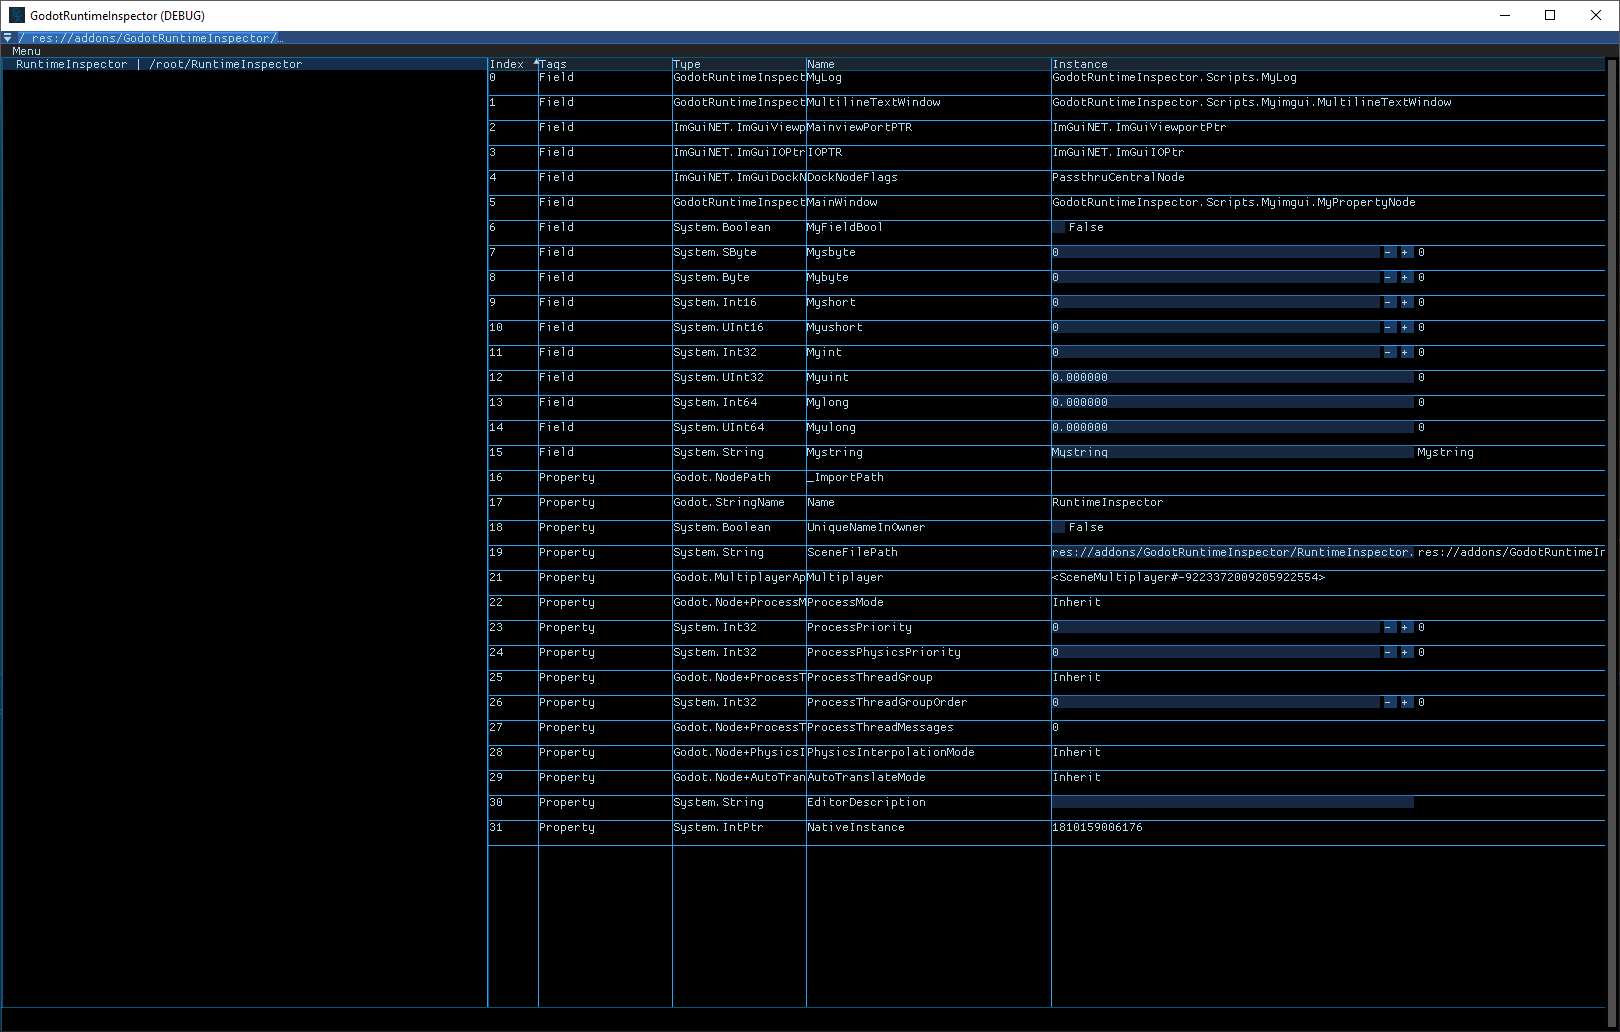
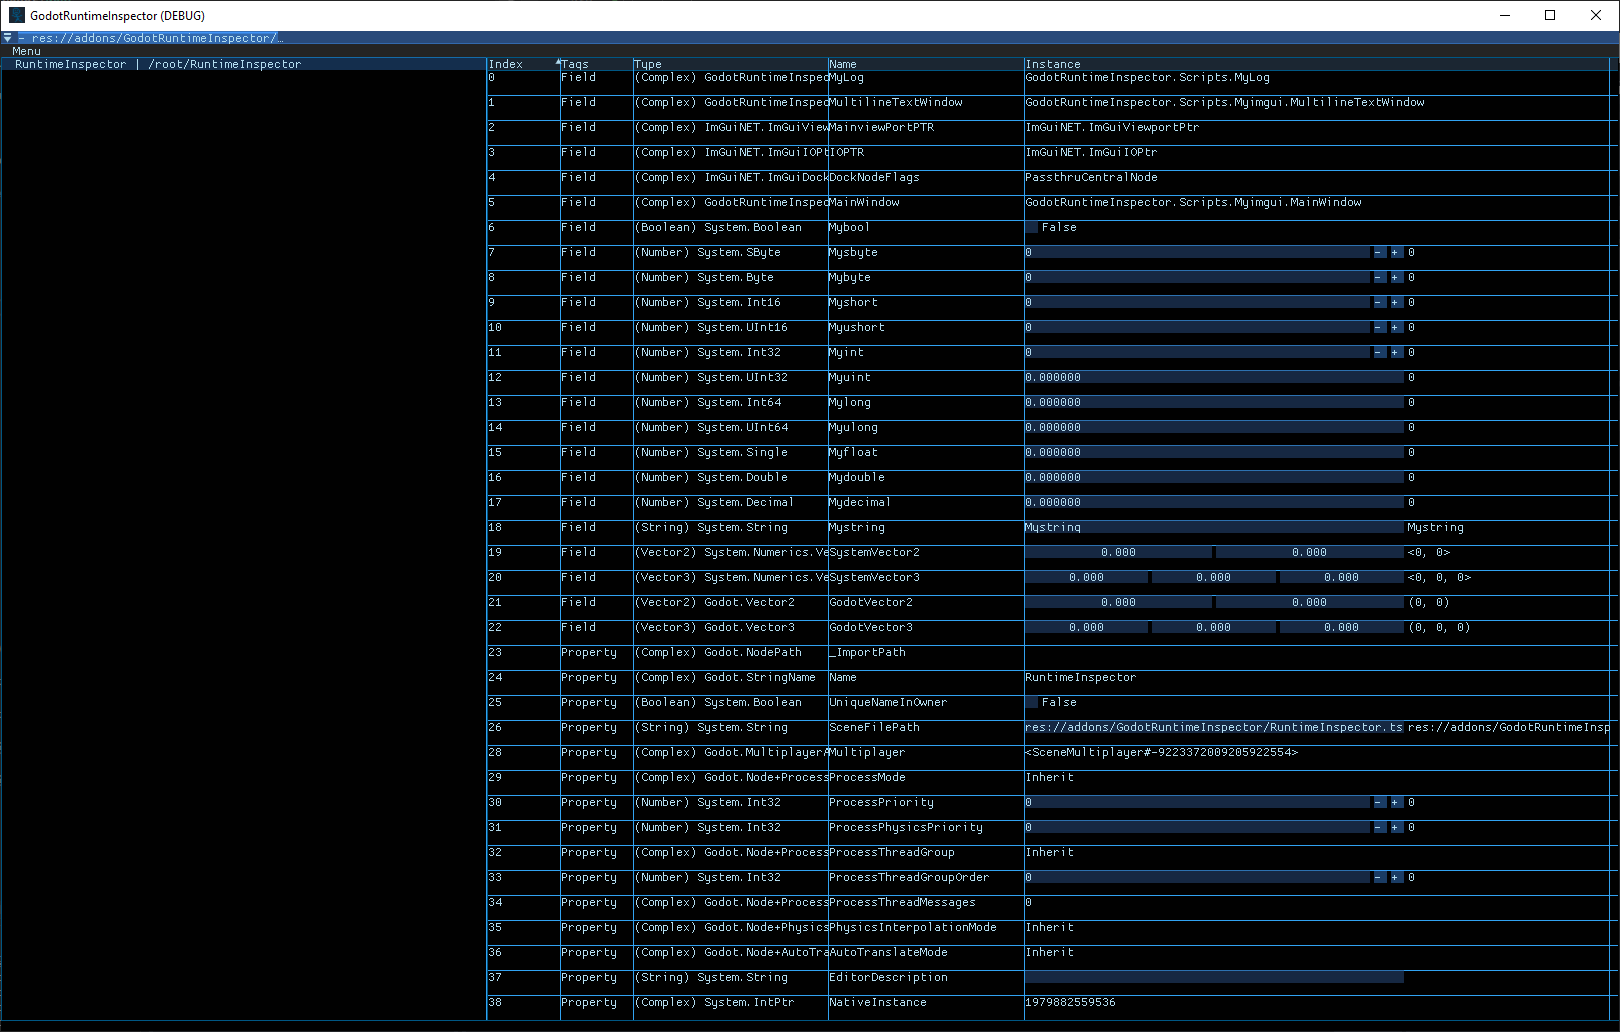
editing

diff --git a/addons/GodotRuntimeInspector/Scripts/Myimgui/MyPropertyTable.cs b/addons/GodotRuntimeInspector/Scripts/Myimgui/MyPropertyTable.cs
@@ -100,7 +100,7 @@
                 float extraSmallWidth = width / 8f;
 
                 ImGuiNET.ImGui.TableSetupColumn(nameof(MyProperty.Index), MyPropertyFlags.TableColumnFlags(), extraSmallWidth);
-                ImGuiNET.ImGui.TableSetupColumn(nameof(MyProperty.Tags), MyPropertyFlags.TableColumnFlags(), smallWidth);
+                ImGuiNET.ImGui.TableSetupColumn(nameof(MyProperty.Tags), MyPropertyFlags.TableColumnFlags(), extraSmallWidth);
                 ImGuiNET.ImGui.TableSetupColumn(nameof(MyProperty.Type), MyPropertyFlags.TableColumnFlags(), smallWidth);
                 ImGuiNET.ImGui.TableSetupColumn(nameof(MyProperty.Name), MyPropertyFlags.TableColumnFlags(), smallWidth);
                 ImGuiNET.ImGui.TableSetupColumn(nameof(MyProperty.Instance), MyPropertyFlags.TableColumnFlags(), width);
@@ -159,7 +159,7 @@
             switch (mytype)
             {
                 case MyTypes.Complex:
-                    DrawString(myProperty);
+                    DrawComplex(myProperty);
                     break;
 
                 case MyTypes.Boolean:
@@ -184,16 +184,13 @@
             }
         }
 
-        private void DrawString(MyProperty myProperty)
+        private void DrawComplex(MyProperty myProperty)
         {
             string text = Utility.ToString(myProperty.Instance);
             string controlId = text + "###" + myProperty.Name;
             string mystring = myProperty.Instance.ToString();
 
-            if (ImGuiNET.ImGui.InputText(text, ref mystring, Config.InputTextMaxLength, MyPropertyFlags.InputTextFlags()))
-            {
-                SetSelectedNodeValue(myProperty, mystring);
-            }
+            ImGuiNET.ImGui.Text(text);
         }
 
         private void DrawMyBoolean(MyProperty myProperty)
@@ -250,6 +247,18 @@
             }
         }
 
+        private void DrawString(MyProperty myProperty)
+        {
+            string text = Utility.ToString(myProperty.Instance);
+            string controlId = text + "###" + myProperty.Name;
+            string mystring = myProperty.Instance.ToString();
+
+            if (ImGuiNET.ImGui.InputText(text, ref mystring, Config.InputTextMaxLength, MyPropertyFlags.InputTextFlags()))
+            {
+                SetSelectedNodeValue(myProperty, mystring);
+            }
+        }
+
         private void DrawVector2(MyProperty myProperty)
         {
             string text = Utility.ToString(myProperty.Instance);
@@ -284,8 +293,30 @@
         {
             string text = Utility.ToString(myProperty.Instance);
             string controlId = text + "###" + myProperty.Name;
-            System.Numerics.Vector3 myvector3 = System.Numerics.Vector3.Zero;
+            System.Numerics.Vector3 systemvector3 = System.Numerics.Vector3.Zero;
 
+            if (myProperty.Instance is System.Numerics.Vector3)
+            {
+                systemvector3 = (System.Numerics.Vector3)myProperty.Instance;
+            }
+            else if (myProperty.Instance is Godot.Vector3)
+            {
+                Godot.Vector3 godotvector3 = (Godot.Vector3)myProperty.Instance;
+                systemvector3 = new System.Numerics.Vector3(godotvector3.X, godotvector3.Y, godotvector3.Z);
+            }
+
+            if (ImGuiNET.ImGui.DragFloat3(controlId, ref systemvector3))
+            {
+                if (myProperty.Instance is System.Numerics.Vector3)
+                {
+                    SetSelectedNodeValue(myProperty, systemvector3);
+                }
+                else if (myProperty.Instance is Godot.Vector3)
+                {
+                    Godot.Vector3 godotvector3 = new Godot.Vector3(systemvector3.X, systemvector3.Y, systemvector3.Z);
+                    SetSelectedNodeValue(myProperty, godotvector3);
+                }
+            }
         }
 
         public void SetSelectedNodeValue(MyProperty myProperty, object value)
@@ -294,17 +325,17 @@
 
             System.Type systemType = _selectedNode.GetType();
 
-            System.Reflection.FieldInfo field = systemType.GetField(myProperty.Name, bindingFlags);
+            System.Reflection.FieldInfo? field = systemType.GetField(myProperty.Name, bindingFlags);
 
             TrySetField(field, myProperty, value);
 
-            System.Reflection.PropertyInfo prop = systemType.GetProperty(myProperty.Name, bindingFlags);
+            System.Reflection.PropertyInfo? prop = systemType.GetProperty(myProperty.Name, bindingFlags);
 
             TrySetProperty(prop, myProperty, value);
 
         }
 
-        private void TrySetField(System.Reflection.FieldInfo field, MyProperty myProperty, object value)
+        private void TrySetField(System.Reflection.FieldInfo? field, MyProperty myProperty, object value)
         {
             if (field is null)
             {
@@ -398,13 +429,23 @@
                 Godot.Vector2 result = (Godot.Vector2)value;
                 field.SetValue(_selectedNode, result);
             }
+            else if (myProperty.Instance is System.Numerics.Vector3)
+            {
+                System.Numerics.Vector3 result = (System.Numerics.Vector3)value;
+                field.SetValue(_selectedNode, result);
+            }
+            else if (myProperty.Instance is Godot.Vector2)
+            {
+                Godot.Vector3 result = (Godot.Vector3)value;
+                field.SetValue(_selectedNode, result);
+            }
             else
             {
                 field.SetValue(_selectedNode, value);
             }
         }
 
-        private void TrySetProperty(System.Reflection.PropertyInfo prop, MyProperty myProperty, object value)
+        private void TrySetProperty(System.Reflection.PropertyInfo? prop, MyProperty myProperty, object value)
         {
             if (prop is null)
             {
@@ -501,6 +542,16 @@
             else if (myProperty.Instance is Godot.Vector2)
             {
                 Godot.Vector2 result = (Godot.Vector2)value;
+                prop.SetValue(_selectedNode, result, null);
+            }
+            else if (myProperty.Instance is System.Numerics.Vector3)
+            {
+                System.Numerics.Vector3 result = (System.Numerics.Vector3)value;
+                prop.SetValue(_selectedNode, result, null);
+            }
+            else if (myProperty.Instance is Godot.Vector3)
+            {
+                Godot.Vector3 result = (Godot.Vector3)value;
                 prop.SetValue(_selectedNode, result, null);
             }
             else

diff --git a/addons/GodotRuntimeInspector/Scripts/GodotRuntimeInspector.cs b/addons/GodotRuntimeInspector/Scripts/GodotRuntimeInspector.cs
@@ -16,7 +16,7 @@ namespace GodotRuntimeInspector.Scripts
 
         // test 
 
-        public bool MyFieldBool = false;
+        public bool Mybool = false;
 
         public sbyte Mysbyte = 0;
 
